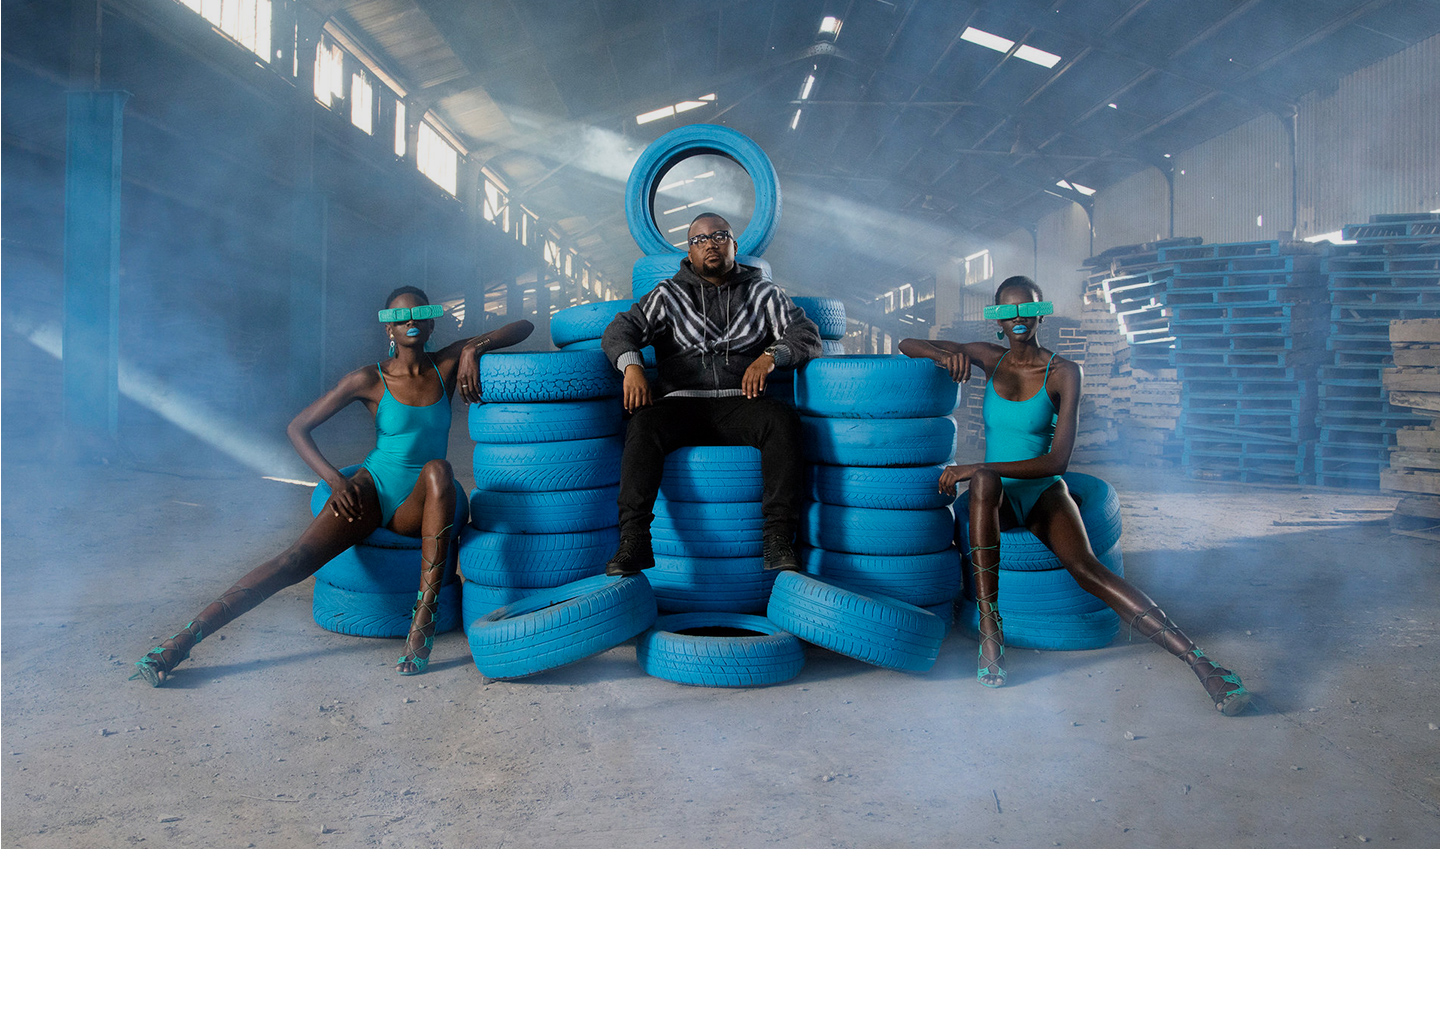
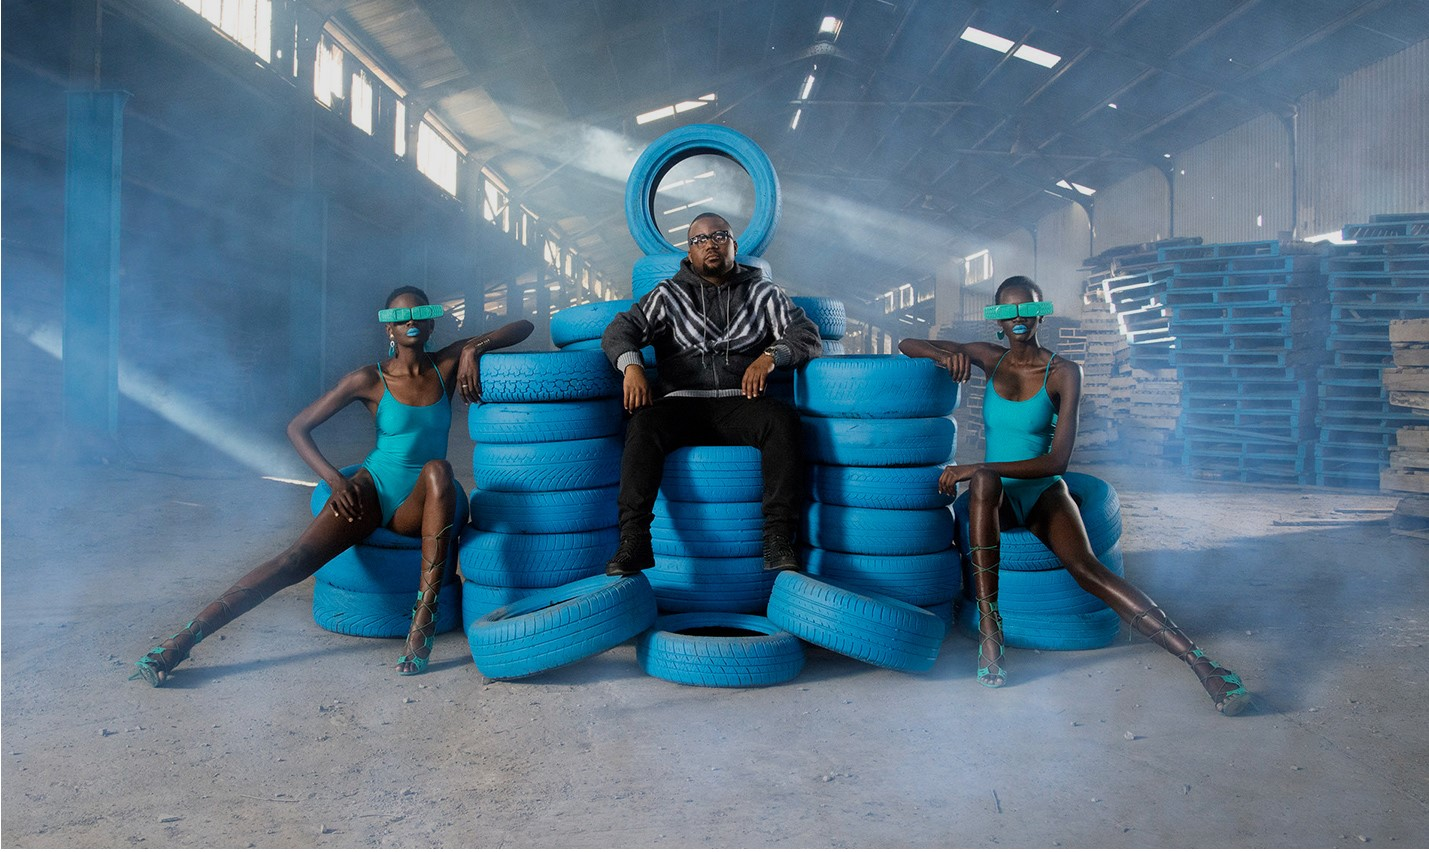
added image and adjusted boxes

diff --git a/styles/styles.scss b/styles/styles.scss
@@ -15,7 +15,7 @@ $backgroundColor: #201728;
     size: cover;
     position: top;
   }
-  height: 120vh;
+  height: 125vh;
   width: 100%;
 
   i {
@@ -30,9 +30,9 @@ $backgroundColor: #201728;
 
   .logo {
     position: relative;
-    top: 45%;
+    top: 42%;
     display: flex;
-    height: 80px;
+    height: 90px;
     margin: 0 auto;
   }
 
@@ -40,7 +40,7 @@ $backgroundColor: #201728;
     position: absolute;
     height: 8%;
     left: 50%;
-    bottom: 2px;
+    bottom: 1px;
   }
 }
 
@@ -53,7 +53,7 @@ $backgroundColor: #201728;
     display: block;
     background-color: $backgroundColor;
     height: 200px;
-    transform: skewY(2deg) translateY(-22px);
+    transform: skewY(3deg) translateY(-41px);
   }
 
   p {
@@ -69,7 +69,7 @@ $backgroundColor: #201728;
       weight: lighter;
     }
     color: #f8f8ff;
-    padding: 5% 8%;
+    padding: 5%;
     width: 50%;
     height: auto;
     margin: 0 auto;
@@ -85,22 +85,37 @@ $backgroundColor: #201728;
       width: 130px;
       margin: 40px auto 0 auto;
       border: 2px solid $secondaryColor;
+
+      img {
+        position: absolute;
+        margin-left: 18px;
+      }
     }
 
-    &::after {
-      content: "";
-      position: relative;
-      height: 30px;
-      width: 100%;
-      background-color: yellow;
-    }
+    //   &::after {
+    //     content: "";
+    //     position: absolute;
+    //     height: 50px;
+    //     width: 100%;
+    //     background-color: yellow;
+    //     transform: skewY(-5deg) translate(-30px, 100px);
+    //   }
   }
 }
 
 @media only screen and (max-width: 600px) {
   .hearo {
     .logo {
-      top: 35%;
+      top: 41%;
+    }
+  }
+
+  .section {
+    p {
+      font-size: 20px;
+      transform: translateY(-95%);
+      padding-top: 20px;
+      line-height: 1.5;
     }
   }
 }

diff --git a/styles/styles.css b/styles/styles.css
@@ -7,7 +7,7 @@
   background-image: url("../img/1. hearo-top.jpg");
   background-size: cover;
   background-position: top;
-  height: 120vh;
+  height: 125vh;
   width: 100%;
 }
 
@@ -23,11 +23,11 @@
 
 .hearo .logo {
   position: relative;
-  top: 45%;
+  top: 42%;
   display: -webkit-box;
   display: -ms-flexbox;
   display: flex;
-  height: 80px;
+  height: 90px;
   margin: 0 auto;
 }
 
@@ -35,7 +35,7 @@
   position: absolute;
   height: 8%;
   left: 50%;
-  bottom: 2px;
+  bottom: 1px;
 }
 
 .section {
@@ -48,8 +48,8 @@
   display: block;
   background-color: #201728;
   height: 200px;
-  -webkit-transform: skewY(2deg) translateY(-22px);
-          transform: skewY(2deg) translateY(-22px);
+  -webkit-transform: skewY(3deg) translateY(-41px);
+          transform: skewY(3deg) translateY(-41px);
 }
 
 .section p {
@@ -68,7 +68,7 @@
   font-size: 38px;
   font-weight: lighter;
   color: #f8f8ff;
-  padding: 5% 8%;
+  padding: 5%;
   width: 50%;
   height: auto;
   margin: 0 auto;
@@ -88,17 +88,21 @@
   border: 2px solid #db1c5e;
 }
 
-.section p::after {
-  content: "";
-  position: relative;
-  height: 30px;
-  width: 100%;
-  background-color: yellow;
+.section p button img {
+  position: absolute;
+  margin-left: 18px;
 }
 
 @media only screen and (max-width: 600px) {
   .hearo .logo {
-    top: 35%;
+    top: 41%;
+  }
+  .section p {
+    font-size: 20px;
+    -webkit-transform: translateY(-95%);
+            transform: translateY(-95%);
+    padding-top: 20px;
+    line-height: 1.5;
   }
 }
 /*# sourceMappingURL=styles.css.map */

diff --git a/index.html b/index.html
@@ -27,7 +27,9 @@
       <p>
         We offer an interconnected set of services to help our clients respond
         to the disruptions and sieze the opportunities of the digital age.
-        <button>ABOUT US</button>
+        <button>
+          ABOUT US <img src="./img/4. arrow-right.png" alt="arrow" />
+        </button>
       </p>
     </div>
   </body>
